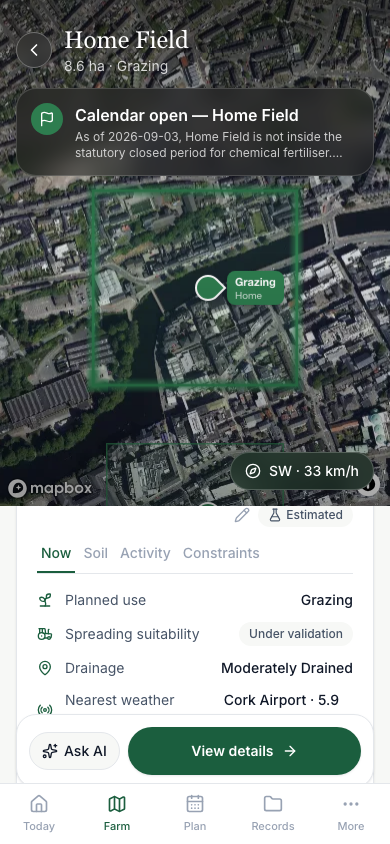
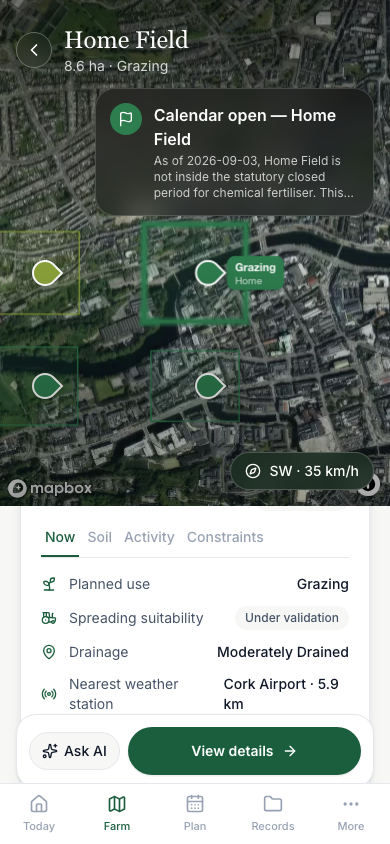
Strict Visual Reproduction round 5: refine Field detail — neighbours, card width, glow
Round 5 scored 7.7/10 PARTIAL LOW drift, continuing steady convergence
(6.2 -> 6.4 -> 7.2 -> 7.7) with no oscillating finding:

- Neighbouring fields (High): wider `flyToPadding` and a lower
  `flyToMaxZoom` (14, from 15) so real neighbouring fields stay in
  frame around the selected boundary — both captures now show three
  real neighbouring fields with their own compact pins.
- Status card (Medium): "spans almost the entire screen... image3 uses
  a narrower, right-biased card" — capped at 78% width and right-
  aligned (`self-end`), leaving materially more of the real aerial
  photo visible; its description line-clamp raised 2->3 so the fix
  doesn't just re-introduce round 4's truncation finding.
- Panel "floating" read (Medium/cosmetic): deeper overlap (-mt-6 ->
  -mt-10), a small side inset, and a stronger shadow so the drawer
  reads as a raised card over the continuing map rather than "a flat,
  opaque white sheet with hard viewport edges".
- Glow crispness (Low): narrower and less blurred (width 15->11, blur
  7->4) so the selected edge reads sharp rather than "broad and
  diffuse", while keeping opacity high enough to stay clearly visible.

Not addressed (Medium, lower priority given diminishing time budget,
same reasoning as round 4's own skipped items): relocating the
drawer's edit/provenance row so the tabs are its first visual row —
real, necessary edit access; moving it would need a shared-component
[…]

diff --git a/src/app/(app)/fields/page.tsx b/src/app/(app)/fields/page.tsx
@@ -330,8 +330,8 @@ function FieldDetailView({
           selectedFieldId={field.id}
           onSelectField={onSelectField}
           flyToSelection
-          flyToPadding={{ top: 130, bottom: 60, left: 90, right: 90 }}
-          flyToMaxZoom={15}
+          flyToPadding={{ top: 130, bottom: 90, left: 110, right: 110 }}
+          flyToMaxZoom={14}
           glowSelection
           compactNeighbourLabels
           center={field.centroid}
@@ -372,9 +372,12 @@ function FieldDetailView({
                   headline (the real Prompt's title) plus its real
                   description as a second line, matching that two-tier
                   shape without inventing the reference's own unsupported
-                  time-of-day detail. */}
+                  time-of-day detail. Codex audit round 5: narrowed and
+                  right-aligned (image3's own card is "narrower,
+                  right-biased", not near-full-width) so more of the real
+                  aerial photo stays visible. */}
               {leadingPrompt ? (
-                <div className="flex items-start gap-3 self-start rounded-fr-card border border-white/15 bg-black/35 p-3.5 backdrop-blur-md">
+                <div className="flex max-w-[78%] items-start gap-3 self-end rounded-fr-card border border-white/15 bg-black/35 p-3.5 backdrop-blur-md">
                   <span
                     className="flex size-8 shrink-0 items-center justify-center rounded-full"
                     style={{
@@ -385,7 +388,7 @@ function FieldDetailView({
                   </span>
                   <div className="min-w-0">
                     <p className="text-base font-semibold text-white">{leadingPrompt.title}</p>
-                    <p className="mt-0.5 line-clamp-2 text-xs text-white/75">{leadingPrompt.description}</p>
+                    <p className="mt-0.5 line-clamp-3 text-xs text-white/75">{leadingPrompt.description}</p>
                   </div>
                 </div>
               ) : null}
@@ -399,13 +402,19 @@ function FieldDetailView({
       </div>
 
       {/* Codex audit round 3: the drawer read as "a separate white card"
-          rather than an integrated panel — a small negative margin lets
-          its own rounded top corners overlap the hero's bottom edge,
-          and `hideIdentity` drops the name/area text the hero's own
-          header already shows. Extra bottom padding on mobile reserves
-          room for the fixed action bar below, which sits above it. */}
-      <div className="-mt-6 flex flex-col gap-4 pb-24 lg:mt-4 lg:pb-0">
-        <FieldDrawer field={field} hideIdentity className="rounded-t-2xl lg:rounded-fr-card" />
+          rather than an integrated panel — a negative margin lets its
+          own rounded top corners overlap the hero's bottom edge, and
+          `hideIdentity` drops the name/area text the hero's own header
+          already shows. Extra bottom padding on mobile reserves room for
+          the fixed action bar below, which sits above it.
+          Codex audit round 5: the overlap read as "a flat, opaque white
+          sheet with hard viewport edges" rather than image3's own
+          floating panel — deeper overlap, a side inset (so the panel
+          doesn't run edge-to-edge under the still-full-bleed hero above
+          it) and a stronger shadow read more like a raised card over the
+          continuing map, not a harder cut into a new section. */}
+      <div className="-mt-10 flex flex-col gap-4 px-1 pb-24 lg:mt-4 lg:px-0 lg:pb-0">
+        <FieldDrawer field={field} hideIdentity className="rounded-2xl shadow-lg lg:rounded-fr-card lg:shadow-fr-card" />
       </div>
 
       {/* Persistent primary action — Codex audit round 3: "the primary

diff --git a/src/components/farm/MapHero.tsx b/src/components/farm/MapHero.tsx
@@ -270,10 +270,13 @@ export function MapHero({
             ],
             // Codex audit round 2 (Strict Visual Reproduction, Field
             // detail): the glow read as "subdued" next to image3's crisp
-            // luminous edge — wider, blurrier and more opaque.
-            "line-width": ["case", ["==", ["get", "fieldId"], selectedFieldIdRef.current ?? ""], 15, 0],
-            "line-blur": 7,
-            "line-opacity": ["case", ["==", ["get", "fieldId"], selectedFieldIdRef.current ?? ""], 0.8, 0],
+            // luminous edge — wider, blurrier and more opaque. Codex
+            // audit round 5: still "broad and diffuse" — narrower and
+            // less blurred so the edge itself reads sharp, not just a
+            // soft halo.
+            "line-width": ["case", ["==", ["get", "fieldId"], selectedFieldIdRef.current ?? ""], 11, 0],
+            "line-blur": 4,
+            "line-opacity": ["case", ["==", ["get", "fieldId"], selectedFieldIdRef.current ?? ""], 0.85, 0],
           },
         });
       }
@@ -358,11 +361,11 @@ export function MapHero({
       );
     }
     if (map.getLayer("fr-field-glow")) {
-      map.setPaintProperty("fr-field-glow", "line-width", ["case", ["==", ["get", "fieldId"], selectedFieldId ?? ""], 15, 0]);
+      map.setPaintProperty("fr-field-glow", "line-width", ["case", ["==", ["get", "fieldId"], selectedFieldId ?? ""], 11, 0]);
       map.setPaintProperty("fr-field-glow", "line-opacity", [
         "case",
         ["==", ["get", "fieldId"], selectedFieldId ?? ""],
-        0.8,
+        0.85,
         0,
       ]);
     }
